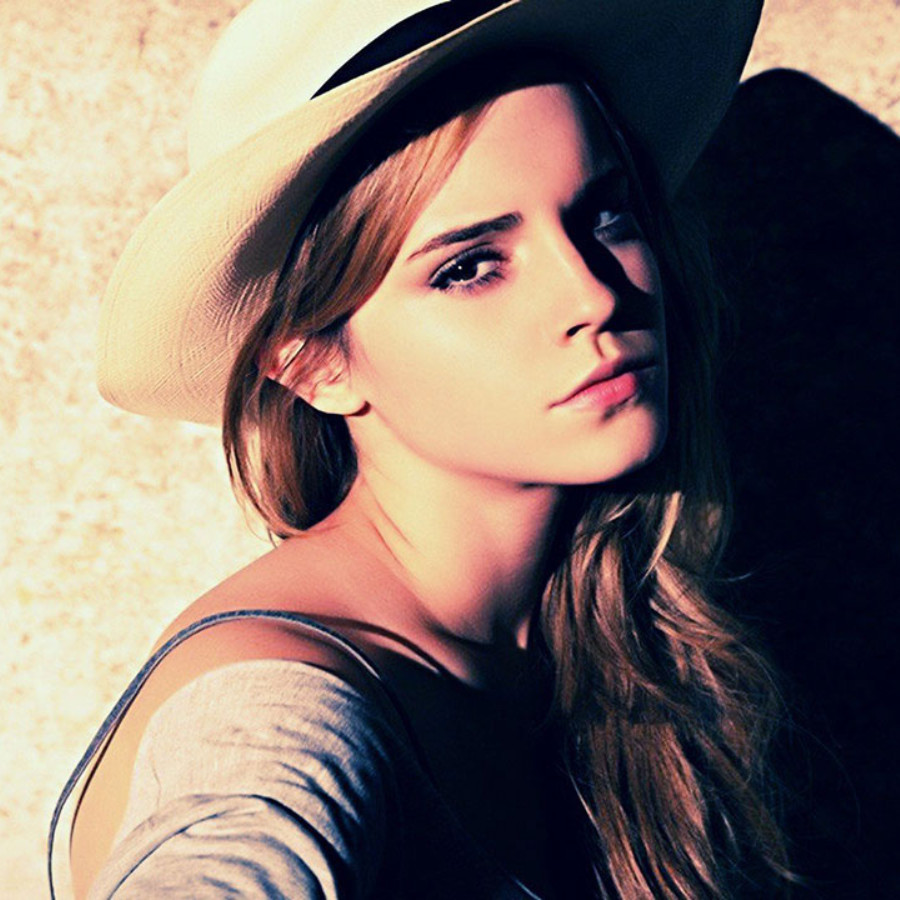
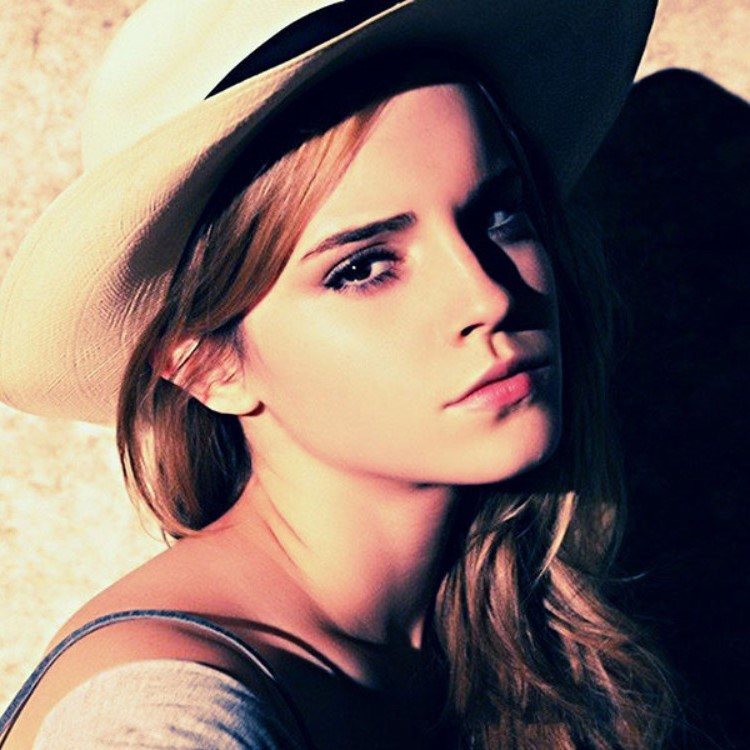
完成 上传头像 修改信息

diff --git a/user/user_avatar.html b/user/user_avatar.html
@@ -1,0 +1,63 @@
+<!DOCTYPE html>
+<html lang="en">
+
+<head>
+    <meta charset="UTF-8" />
+    <meta name="viewport" content="width=device-width, initial-scale=1.0" />
+    <title>Document</title>
+    <link rel="stylesheet" href="../assets/lib/layui/css/layui.css" />
+    <link rel="stylesheet" href="../assets/lib/cropper/cropper.css">
+    <link rel="stylesheet" href="../assets/css/user_avatar.css" />
+</head>
+
+<body>
+    <!-- 卡片区域 -->
+    <div class="layui-card">
+        <div class="layui-card-header">更换头像</div>
+        <div class="layui-card-body">
+            <!-- 第一行的图片裁剪和预览区域 -->
+            <div class="row1">
+                <!-- 图片裁剪区域 -->
+                <div class="cropper-box">
+                    <!-- 这个 img 标签很重要，将来会把它初始化为裁剪区域 -->
+                    <img id="image" src="../assets/images/sample.jpg" />
+                </div>
+                <!-- 图片的预览区域 -->
+                <div class="preview-box">
+                    <div>
+                        <!-- 宽高为 100px 的预览区域 -->
+                        <div class="img-preview w100"></div>
+                        <p class="size">100 x 100</p>
+                    </div>
+                    <div>
+                        <!-- 宽高为 50px 的预览区域 -->
+                        <div class="img-preview w50"></div>
+                        <p class="size">50 x 50</p>
+                    </div>
+                </div>
+            </div>
+
+            <!-- 第二行的按钮区域 -->
+            <div class="row2">
+                <!-- 通过 accept 属性，可以指定，允许用户选择什么类型的文件 -->
+                <input type="file" id="file" accept="image/png,image/jpeg" />
+                <button type="button" class="layui-btn" id="ChooseImage">上传</button>
+                <button type="button" class="layui-btn layui-btn-danger" id="Upload">确定</button>
+            </div>
+        </div>
+    </div>
+    <!-- 引入LayUI -->
+    <script src="../assets/lib/layui/layui.all.js"></script>
+    <!-- 引入jQuery -->
+    <script src="../assets/lib/jquery.js"></script>
+    <!-- 引入cropper -->
+    <script src="../assets/lib/cropper/Cropper.js"></script>
+    <!-- 引入联动 -->
+    <script src="../assets/lib/cropper/jquery-cropper.js"></script>
+    <!-- 引入公共头 -->
+    <script src="../assets/js/baseAPI.js"></script>
+    <!-- 引入此页面的js -->
+    <script src="../assets/js/user_avatar.js"></script>
+</body>
+
+</html>

diff --git a/assets/js/user_avatar.js b/assets/js/user_avatar.js
@@ -1,0 +1,69 @@
+$(function() {
+    var layer = layui.layer;
+
+    // 1.1 获取裁剪区域的 DOM 元素
+    var $image = $('#image');
+    // 1.2 配置选项
+    const options = {
+        // 纵横比
+        aspectRatio: 1,
+        // 指定预览区域
+        preview: '.img-preview'
+    }
+
+    // 1.3 创建裁剪区域
+    $image.cropper(options);
+
+    // 为上传按钮绑定点击事件
+    $('#ChooseImage').on('click', function() {
+        // 相当于 手动点击 文件 按钮
+        $('#file').click();
+    })
+
+    // 为文件选择框绑定 change 事件
+    $('#file').on('change', function(e) {
+        // 获取用户选择的文件
+        var filelist = e.target.files
+        if (filelist.length === 0) {
+            return layer.msg('请选择照片！')
+        }
+        // 1. 拿到用户选择的文件
+        var file = e.target.files[0];
+        // 2. 将文件，转化为路径
+        var imgURL = URL.createObjectURL(file);
+        // 3. 重新初始化裁剪区域
+        $image
+            .cropper('destroy') // 销毁旧的裁剪区域
+            .attr('src', imgURL) // 重新设置图片路径
+            .cropper(options) // 重新初始化裁剪区域
+    })
+
+    // 为确定按钮，绑定点击事件
+    $('#Upload').on('click', function() {
+        // 1. 要拿到用户裁剪之后的头像
+        var dataURL = $image
+            .cropper('getCroppedCanvas', {
+                // 创建一个 Canvas 画布
+                width: 100,
+                height: 100
+            })
+            // 将 Canvas 画布上的内容，转化为 base64 格式的字符串
+            .toDataURL('image/png');
+        // 2. 调用接口，把头像上传到服务器
+        $.ajax({
+            method: 'POST',
+            url: '/my/update/avatar',
+            data: {
+                avatar: dataURL
+            },
+            success: function(res) {
+                if (res.status !== 0) {
+                    return layer.msg('更换头像失败！')
+                }
+                layer.msg('更换头像成功！');
+                // 调用[父页面]中的方法，重新渲染用户的头像和用户的信息
+                window.parent.getUser();
+            }
+        })
+    })
+})

diff --git a/user/user_pwd.html b/user/user_pwd.html
@@ -1,0 +1,47 @@
+<!DOCTYPE html>
+<html lang="en">
+
+<head>
+    <meta charset="UTF-8" />
+    <meta name="viewport" content="width=device-width, initial-scale=1.0" />
+    <title>修改用户密码</title>
+    <link rel="stylesheet" href="../assets/lib/layui/css/layui.css" />
+    <link rel="stylesheet" href="../assets/css/user_pwd.css" />
+</head>
+
+<body>
+    <!-- 卡片区域 -->
+    <div class="layui-card">
+        <div class="layui-card-header">修改密码</div>
+        <div class="layui-card-body">
+            <form class="layui-form">
+                <div class="layui-form-item">
+                    <label class="layui-form-label">原密码</label>
+                    <div class="layui-input-block">
+                        <input type="password" name="oldPwd" required lay-verify="required" placeholder="请输入原密码" autocomplete="off" class="layui-input" />
+                    </div>
+                </div>
+                <div class="layui-form-item">
+                    <label class="layui-form-label">新密码</label>
+                    <div class="layui-input-block">
+                        <input type="password" name="newPwd" required lay-verify="required" placeholder="请输入新密码" autocomplete="off" class="layui-input" />
+                    </div>
+                </div>
+                <div class="layui-form-item">
+                    <label class="layui-form-label">确认新密码</label>
+                    <div class="layui-input-block">
+                        <input type="password" name="rePwd" required lay-verify="required" placeholder="请再次确认密码" autocomplete="off" class="layui-input" />
+                    </div>
+                </div>
+                <div class="layui-form-item">
+                    <div class="layui-input-block">
+                        <button class="layui-btn" lay-submit lay-filter="formDemo">修改密码</button>
+                        <button type="reset" class="layui-btn layui-btn-primary">重置</button>
+                    </div>
+                </div>
+            </form>
+        </div>
+    </div>
+</body>
+
+</html>

diff --git a/index.html b/index.html
@@ -30,8 +30,8 @@
                         <!-- <span class="text-avatar"> 模拟的文字头像 A</span> -->个人中心
                     </a>
                     <dl class="layui-nav-child">
-                        <dd> <a href="user/user_info.html" target="fm"><i class="layui-icon layui-icon-app"></i>基本资料</a></dd>
-                        <dd><a href="">更换头像</a></dd>
+                        <dd><a href="user/user_info.html" target="fm"><i class="layui-icon layui-icon-app"></i>基本资料</a></dd>
+                        <dd><a href="user/user_avatar.html" target="fm"><i class="layui-icon layui-icon-app"></i>更换头像</a></dd>
                         <dd><a href="">重置密码</a></dd>
                     </dl>
                 </li>
@@ -46,7 +46,7 @@
                 <div class="userinfo">
                     <img src="http://t.cn/RCzsdCq" class="layui-nav-img" />
                     <!-- <span class="text-avatar"> 模拟的文字头像 A</span> -->
-                    <span id="welcome">欢迎 东洋剑客</span>
+                    <span id="welcome">欢迎 </span>
                 </div>
                 <ul class="layui-nav layui-nav-tree" lay-shrink="all">
                     <!-- 首页 -->
@@ -76,7 +76,7 @@
                                 <a href="user/user_info.html" target="fm"><i class="layui-icon layui-icon-app"></i>基本资料</a>
                             </dd>
                             <dd>
-                                <a href="javascript:;"><i class="layui-icon layui-icon-app"></i>更换头像</a>
+                                <a href="user/user_avatar.html" target="fm"><i class="layui-icon layui-icon-app"></i>更换头像</a>
                             </dd>
                             <dd>
                                 <a href="javascript:;"><i class="layui-icon layui-icon-app"></i>重置密码</a>

diff --git a/assets/js/user_info.js b/assets/js/user_info.js
@@ -6,9 +6,8 @@ $(function() {
                 return '昵称长度必须在 1 ~ 6 个字符之间！'
             }
         }
-    })
-
-
+    });
+    // 调用 初始化用户信息 方法
     initUserInfo();
 
     // 初始化用户的基本信息
@@ -33,5 +32,25 @@ $(function() {
         e.preventDefault();
         // 调用 初始化用户基本信息 方法
         initUserInfo();
+    });
+
+    // 监听表单的提交事件
+    $('.layui-form').on('submit', function(e) {
+        // 阻止表单的默认提交行为
+        e.preventDefault();
+        // 发起 ajax 数据请求
+        $.ajax({
+            method: 'POST',
+            url: '/my/userinfo',
+            data: $(this).serialize(),
+            success: function(res) {
+                if (res.status !== 0) {
+                    return layer.msg('更新用户信息失败！');
+                }
+                layer.msg('更新用户信息成功！');
+                // 调用[父页面]中的方法，重新渲染用户的头像和用户的信息
+                window.parent.getUser();
+            }
+        })
     })
 })

diff --git a/assets/js/index.js b/assets/js/index.js
@@ -30,7 +30,7 @@ function renderAvatar(user) {
     // 1. 获取用户的名称 [进行判断优先级]
     var name = user.nickname || user.username;
     // 2. 设置欢迎的文本内容
-    $('#welcome').html('欢迎&nbsp;&nbsp;' + name + '&nbsp;我的宝贝!');
+    $('#welcome').html('欢迎&nbsp;&nbsp;' + name + '&nbsp;!');
     // 3. 按需渲染用户的头像
     if (user.user_pic !== null) {
         // 若用户有具体的图片头像, 则优先渲染 图片头像

diff --git a/assets/css/user_pwd.css b/assets/css/user_pwd.css
@@ -1,0 +1,14 @@
+html,
+body {
+    margin: 0;
+    padding: 0;
+}
+
+body {
+    padding: 15px;
+    background-color: #f2f3f5;
+}
+
+.layui-form {
+    width: 500px;
+}

diff --git a/assets/css/user_avatar.css b/assets/css/user_avatar.css
@@ -1,0 +1,10 @@
+html,
+body {
+    margin: 0;
+    padding: 0;
+}
+
+body {
+    padding: 15px;
+    background-color: #f2f3f5;
+}
